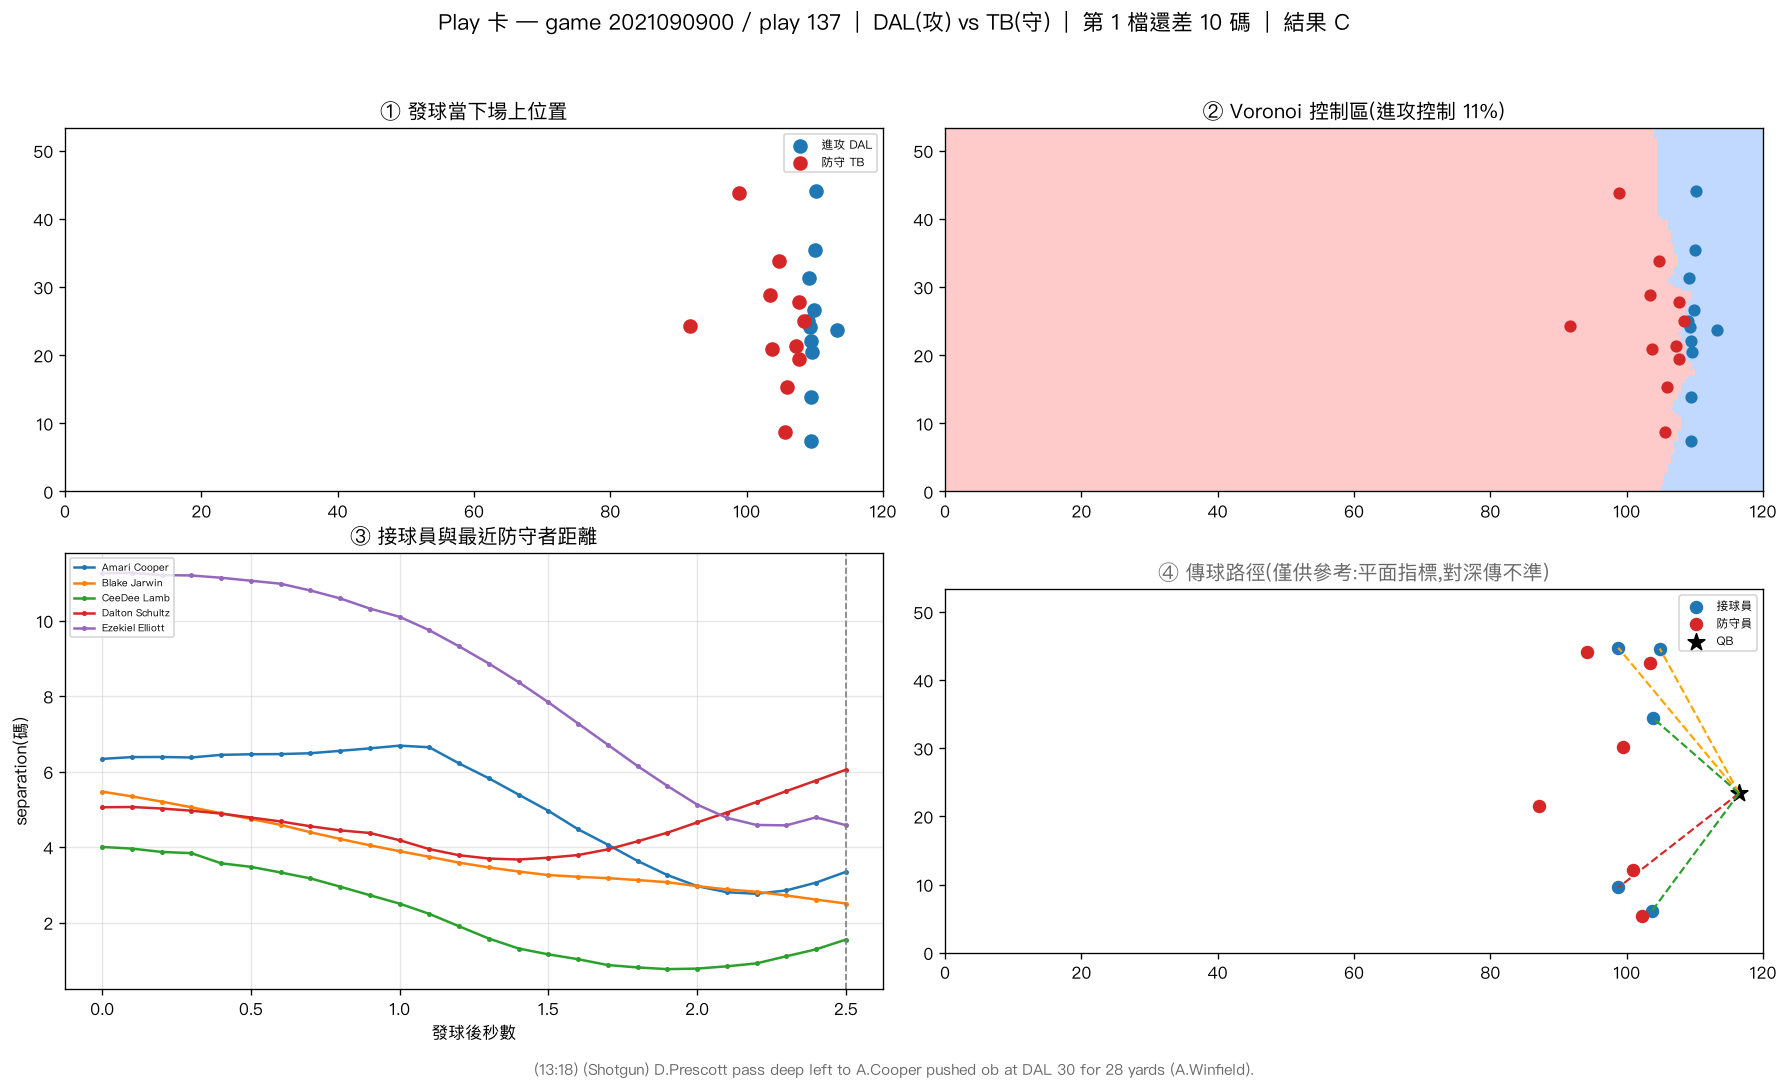
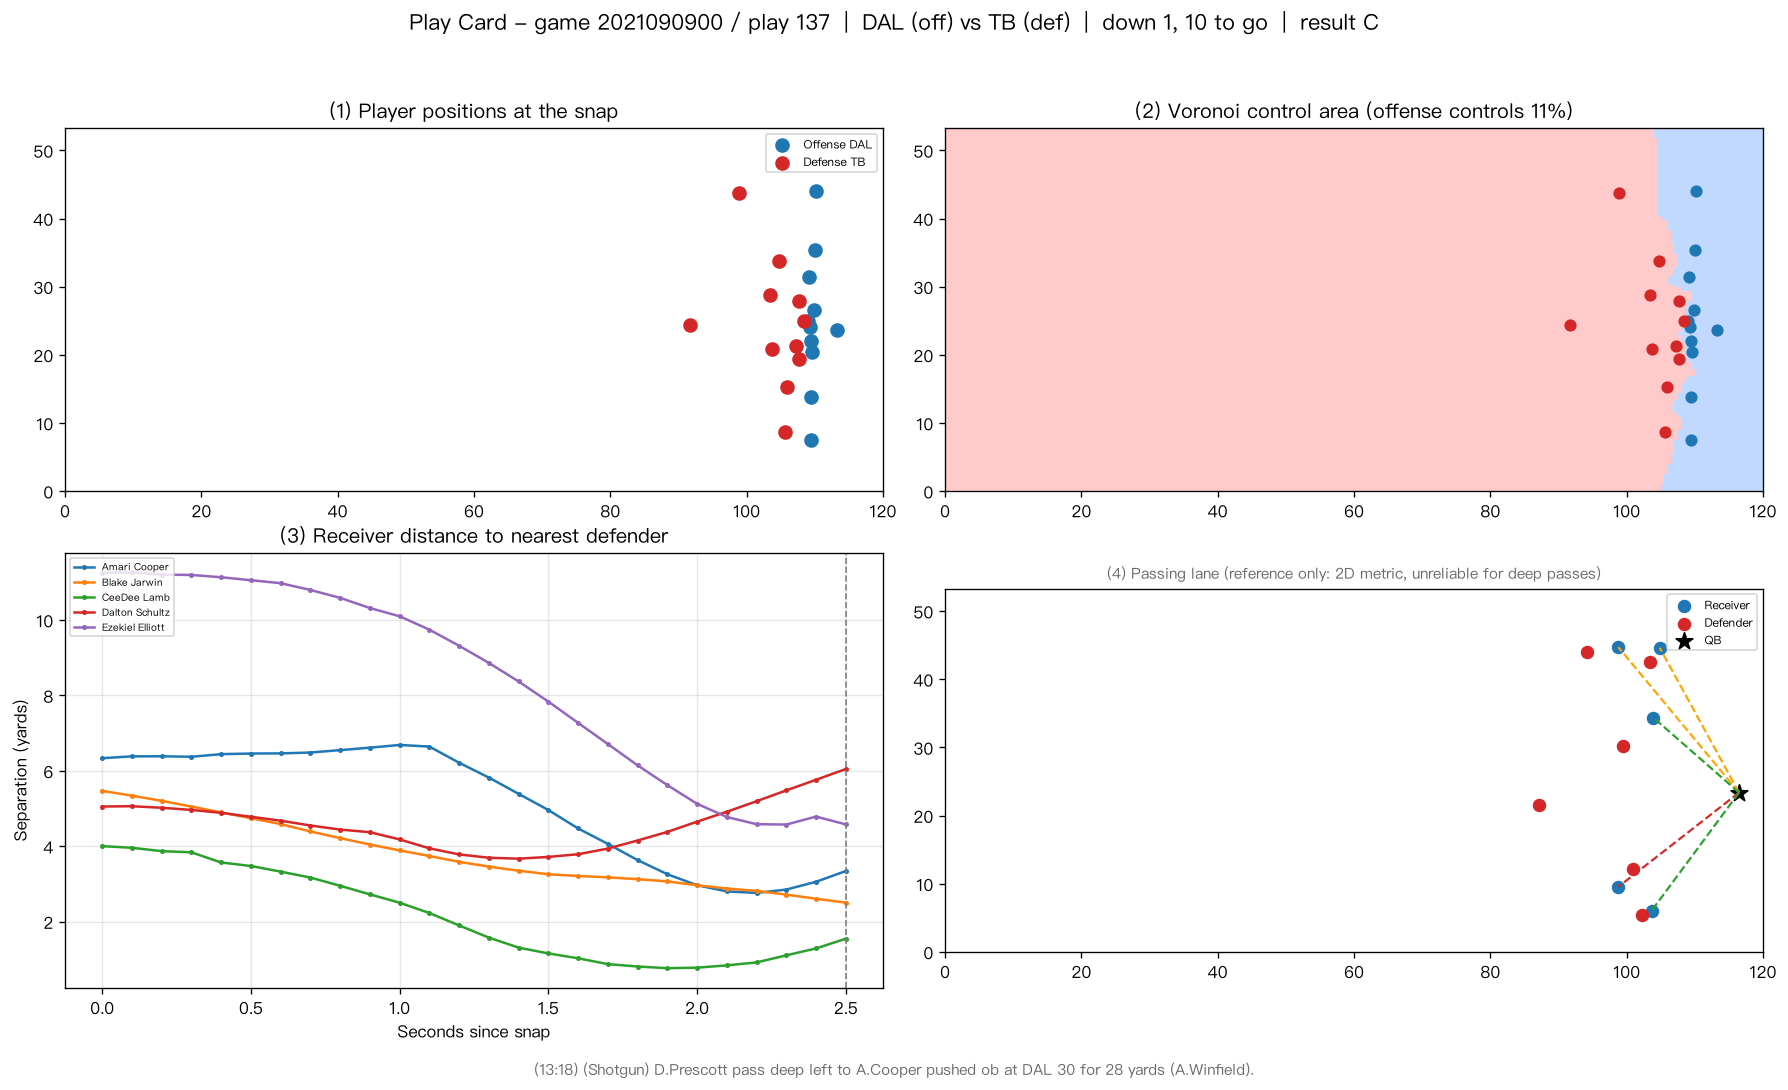
Add files via upload

diff --git a/export_play_cards.py b/export_play_cards.py
@@ -1,9 +1,10 @@
-"""匯出 play 卡成 PNG(交付用的靜態 output)。
+"""Export play cards as PNG files (static output for submission).
 
-沿用第七/十階段的 play 卡繪圖邏輯,把幾個代表性 play 存成圖檔,
-放進 output/ 資料夾,讓交付物自帶成品圖、不依賴互動環境。
+Reuses the play-card drawing logic from stages 7/10 and saves a few
+representative plays to the output/ folder, so the deliverable ships with
+finished images and does not depend on an interactive environment.
 
-執行:
+Run:
     .venv/bin/python export_play_cards.py
 """
 
@@ -25,10 +26,10 @@ from config import DATA_DIR, PROJECT_DIR
 plt.rcParams["font.sans-serif"] = ["PingFang TC", "Heiti TC", "Arial Unicode MS"]
 plt.rcParams["axes.unicode_minus"] = False
 
-# 要匯出的代表性 play:(gameId, playId, 檔名後綴, 一句話說明)
+# Representative plays to export: (gameId, playId, filename suffix, one-line note)
 TARGETS = [
-    (2021090900, 137, "deep_pass_complete", "深傳成功:最空的人不等於傳球目標"),
-    (2021090900, 97, "deep_pass_incomplete", "深傳未成:外接員被緊盯"),
+    (2021090900, 137, "deep_pass_complete", "Deep pass completed: the most open receiver is not the target"),
+    (2021090900, 97, "deep_pass_incomplete", "Deep pass incomplete: receiver tightly covered"),
 ]
 
 FIELD_X, FIELD_Y, STEP = 120.0, 53.3, 0.5
@@ -76,12 +77,12 @@ def _snapshot(d, ax):
     s = d["seg"][(d["seg"]["frameId"] == d["snap_frame"]) & d["seg"]["nflId"].notna()]
     o = s[s["team"] == d["off_team"]]
     f = s[s["team"] == d["def_team"]]
-    ax.scatter(o["x"], o["y"], c="tab:blue", s=60, label=f"進攻 {d['off_team']}")
-    ax.scatter(f["x"], f["y"], c="tab:red", s=60, label=f"防守 {d['def_team']}")
+    ax.scatter(o["x"], o["y"], c="tab:blue", s=60, label=f"Offense {d['off_team']}")
+    ax.scatter(f["x"], f["y"], c="tab:red", s=60, label=f"Defense {d['def_team']}")
     ax.set_xlim(0, FIELD_X)
     ax.set_ylim(0, FIELD_Y)
     ax.set_aspect("equal")
-    ax.set_title("① 發球當下場上位置")
+    ax.set_title("(1) Player positions at the snap")
     ax.legend(loc="upper right", fontsize=7)
 
 
@@ -99,7 +100,7 @@ def _voronoi(d, ax):
     ax.scatter(s[s["team"] == d["def_team"]]["x"], s[s["team"] == d["def_team"]]["y"], c="tab:red", s=40)
     ax.set_xlim(0, FIELD_X)
     ax.set_ylim(0, FIELD_Y)
-    ax.set_title(f"② Voronoi 控制區(進攻控制 {off_pct:.0f}%)")
+    ax.set_title(f"(2) Voronoi control area (offense controls {off_pct:.0f}%)")
 
 
 def _separation(d, ax):
@@ -115,9 +116,9 @@ def _separation(d, ax):
                 ys.append(np.sqrt((dd[:, 0] - r0["x"]) ** 2 + (dd[:, 1] - r0["y"]) ** 2).min())
         ax.plot(xs, ys, marker="o", markersize=2, label=name)
     ax.axvline((d["pass_frame"] - d["snap_frame"]) * 0.1, color="gray", linestyle="--", linewidth=1)
-    ax.set_xlabel("發球後秒數")
-    ax.set_ylabel("separation(碼)")
-    ax.set_title("③ 接球員與最近防守者距離")
+    ax.set_xlabel("Seconds since snap")
+    ax.set_ylabel("Separation (yards)")
+    ax.set_title("(3) Receiver distance to nearest defender")
     ax.legend(fontsize=6, loc="upper left")
     ax.grid(True, alpha=0.3)
 
@@ -126,7 +127,7 @@ def _lanes(d, ax):
     fr = d["seg"][(d["seg"]["frameId"] == d["pass_frame"]) & d["seg"]["nflId"].notna()]
     qb = fr[fr["pff_role"] == "Pass"]
     if qb.empty:
-        ax.set_title("④ 傳球路徑(此 play 無 QB 標記)")
+        ax.set_title("(4) Passing lane (no QB tagged on this play)")
         return
     qb = qb.iloc[0]
     rec = fr[fr["pff_role"] == "Pass Route"]
@@ -140,13 +141,13 @@ def _lanes(d, ax):
         md = min(blk) if blk else np.nan
         color = "tab:green" if (np.isnan(md) or md >= 3) else ("orange" if md >= 1.5 else "tab:red")
         ax.plot([qb["x"], r["x"]], [qb["y"], r["y"]], "--", color=color, linewidth=1.3)
-    ax.scatter(rec["x"], rec["y"], c="tab:blue", s=50, label="接球員")
-    ax.scatter(dfn["x"], dfn["y"], c="tab:red", s=50, label="防守員")
+    ax.scatter(rec["x"], rec["y"], c="tab:blue", s=50, label="Receiver")
+    ax.scatter(dfn["x"], dfn["y"], c="tab:red", s=50, label="Defender")
     ax.scatter([qb["x"]], [qb["y"]], c="black", s=110, marker="*", label="QB")
     ax.set_xlim(0, FIELD_X)
     ax.set_ylim(0, FIELD_Y)
     ax.set_aspect("equal")
-    ax.set_title("④ 傳球路徑(僅供參考:平面指標,對深傳不準)", color="dimgray")
+    ax.set_title("(4) Passing lane (reference only: 2D metric, unreliable for deep passes)", color="dimgray", fontsize=9)
     ax.legend(fontsize=7, loc="upper right")
 
 
@@ -158,10 +159,10 @@ def make_card(d, game_id, play_id):
     _separation(d, axes[1, 0])
     _lanes(d, axes[1, 1])
     title = (
-        f"Play 卡 — game {game_id} / play {play_id}  |  "
-        f"{d['off_team']}(攻) vs {d['def_team']}(守)  |  "
-        f"第 {info.get('down', '?')} 檔還差 {info.get('yardsToGo', '?')} 碼  |  "
-        f"結果 {info.get('passResult', '?')}"
+        f"Play Card - game {game_id} / play {play_id}  |  "
+        f"{d['off_team']} (off) vs {d['def_team']} (def)  |  "
+        f"down {info.get('down', '?')}, {info.get('yardsToGo', '?')} to go  |  "
+        f"result {info.get('passResult', '?')}"
     )
     fig.suptitle(title, fontsize=13, y=0.99)
     fig.text(0.5, 0.005, str(info.get("playDescription", "")), ha="center", fontsize=9, color="dimgray")
@@ -184,15 +185,15 @@ def main():
         tracking = tracking_cache[game_id]
         d = prepare_play(plays, players, pff, tracking, game_id, play_id)
         if d is None:
-            print(f"略過 game {game_id} play {play_id}(非傳球 play)")
+            print(f"Skipped game {game_id} play {play_id} (not a pass play)")
             continue
         fig = make_card(d, game_id, play_id)
         out_path = out_dir / f"play_card_{game_id}_{play_id}_{suffix}.png"
         fig.savefig(out_path, dpi=120, bbox_inches="tight")
         plt.close(fig)
-        print(f"已存:{out_path.name}  — {note}")
+        print(f"Saved: {out_path.name}  - {note}")
 
-    print(f"\n全部完成,輸出位於:{out_dir}")
+    print(f"\nDone. Output in: {out_dir}")
 
 
 if __name__ == "__main__":

diff --git a/README.md b/README.md
@@ -1,42 +1,47 @@
-# NFL 傳球空間分析工具
+# NFL Passing Space Analysis Tool
 
-## 這是什麼(3–5 句摘要)
+## What this is (3–5 sentence summary)
 
-我用 NFL Big Data Bowl 的球員追蹤資料,建了一個「傳球空間」分析工具:它量化每一次傳球時場上的空間狀況,包含接球員與最近防守者的距離(separation)、整片場地被哪一隊控制(Voronoi 控制區),並整合成一張單頁 **play 卡**、再包成能瀏覽整季 122 場比賽的互動介面。它揭露了一個反直覺的現象 —— **傳球瞬間最空的接球員,往往不是四分衛實際傳球的對象**,因為深傳靠的是落點與時機,常在很小的空檔(整場中位數約 2.85 碼)下完成。這個工具是給**教練與球探**用的:快速檢視某個 play 的傳球決策與空間結構,而不必逐格看原始追蹤資料。
+Using NFL Big Data Bowl player tracking data, I built a "passing space" analysis tool that quantifies the space on the field at the moment of each pass: how far a receiver is from the nearest coverage defender (separation), which team controls each part of the field (Voronoi control area), all combined into a single-page **play card** and wrapped in an interactive explorer that covers an entire 122-game slate. It reveals a counterintuitive pattern — **the most open receiver at the moment of release is often not the one the quarterback throws to**, because deep passes rely on timing and ball placement and are frequently completed into very tight windows (game-wide median separation of about 2.85 yards). The tool is for **coaches and scouts**: it lets them quickly review the passing decision and spatial structure of a given play without reading raw tracking frames.
 
-## 交付物
+## Deliverables
 
-- **程式**:`notebooks/` 下十個循序的 Jupyter notebook(載入資料 → 空間指標 → play 卡 → 互動工具),外加 `export_play_cards.py`(匯出靜態圖)。
-- **output**:`output/` 下的 play 卡 PNG(見下方)。
-- **技術附錄**:完整的逐階段開發紀錄見 [`DEVELOPMENT_LOG.md`](DEVELOPMENT_LOG.md)。
+- **Code**: ten sequential Jupyter notebooks under `notebooks/` (load data → spatial metrics → play card → interactive tool), plus `export_play_cards.py` (export static images) and `route_space_v1.py` (a polished single-metric demo).
+- **Output**: play card PNGs under `output/` (see below).
+- **Technical appendix**: the full stage-by-stage development log is in [`DEVELOPMENT_LOG.md`](DEVELOPMENT_LOG.md).
 
-## Output 範例
+## Output examples
 
-兩張代表性 play 卡(皆為深傳,一成一敗):
+Two representative play cards (both deep passes, one complete and one incomplete):
 
-- `output/play_card_2021090900_137_deep_pass_complete.png` — 深傳成功,示範「最空的人不等於傳球目標」。
-- `output/play_card_2021090900_97_deep_pass_incomplete.png` — 深傳未成,外接員被緊盯。
+- `output/play_card_2021090900_137_deep_pass_complete.png` — completed deep pass, demonstrating "the most open receiver is not the target."
+- `output/play_card_2021090900_97_deep_pass_incomplete.png` — incomplete deep pass, receiver tightly covered.
 
-每張 play 卡含四格:① 發球當下場上位置、② Voronoi 控制區、③ separation 隨時間變化、④ 傳球路徑(僅供參考)。
+Each play card has four panels: (1) player positions at the snap, (2) Voronoi control area, (3) separation over time, (4) passing lane (reference only).
 
-## 如何執行
+There is also a single-metric demo in `output/route_space_v1_2021090900_137_amari_cooper.png` (plus its `.csv`), focused on one route runner.
 
-需求:Python 3.13、資料集放在 `config.py` 指定的 `DATA_DIR`。
+## How to run
+
+Requirements: Python 3.13, with the dataset located at the path configured in `config.py` (`DATA_DIR`).
 
 ```bash
 cd /Users/jingleliao/Downloads/nfl_passing_project
 python3 -m venv .venv
 .venv/bin/python -m pip install -r requirements.txt
 
-# 重新產出 output 的 play 卡 PNG
+# Set the data path (or edit the default in config.py)
+export NFL_DATA_DIR="/path/to/nfl-big-data-bowl.../data"
+
+# Re-generate the output play card PNGs
 .venv/bin/python export_play_cards.py
 
-# 或開互動工具(需在 Jupyter 實際執行才會出現下拉選單)
+# Or open the interactive tool (dropdowns appear only when run live in Jupyter)
 .venv/bin/jupyter notebook notebooks/10_multi_game_explorer.ipynb
 ```
 
-## 方法與誠實的限制
+## Methods and honest limitations
 
-- **separation**(接球員與最近防守者距離)與 **Voronoi 控制區**(整片場地的空間歸屬)是本工具的兩個主力指標,皆經資料驗證。
-- **passing lane**(傳球路徑上的擋路者)是平面指標,**對深傳不可靠**:它只看防守者離直線多近,不考慮球的高度與弧線。嘗試用接球員運動外推修正後,資料顯示仍無效(見 `DEVELOPMENT_LOG.md` 第八階段)。因此 play 卡上已把這一格標註為「僅供參考」。
-- 全程原則:**先用資料算、再下結論**,不預設球員表現好壞;原始資料集唯讀,不修改。
+- **separation** (receiver distance to nearest coverage defender) and the **Voronoi control area** (spatial ownership of the whole field) are the tool's two primary metrics, both validated against the data.
+- **passing lane** (blockers along the throwing line) is a 2D metric and is **unreliable for deep passes**: it only looks at how close a defender is to the straight line, ignoring the height and arc of the ball. An attempt to fix it by extrapolating receiver motion still failed when checked against the data (see stage 8 in `DEVELOPMENT_LOG.md`). The play card therefore labels this panel "reference only."
+- Guiding principle throughout: **compute from the data first, draw conclusions second** — no assumptions about whether a player performed well or badly. The raw dataset is read-only and never modified.
